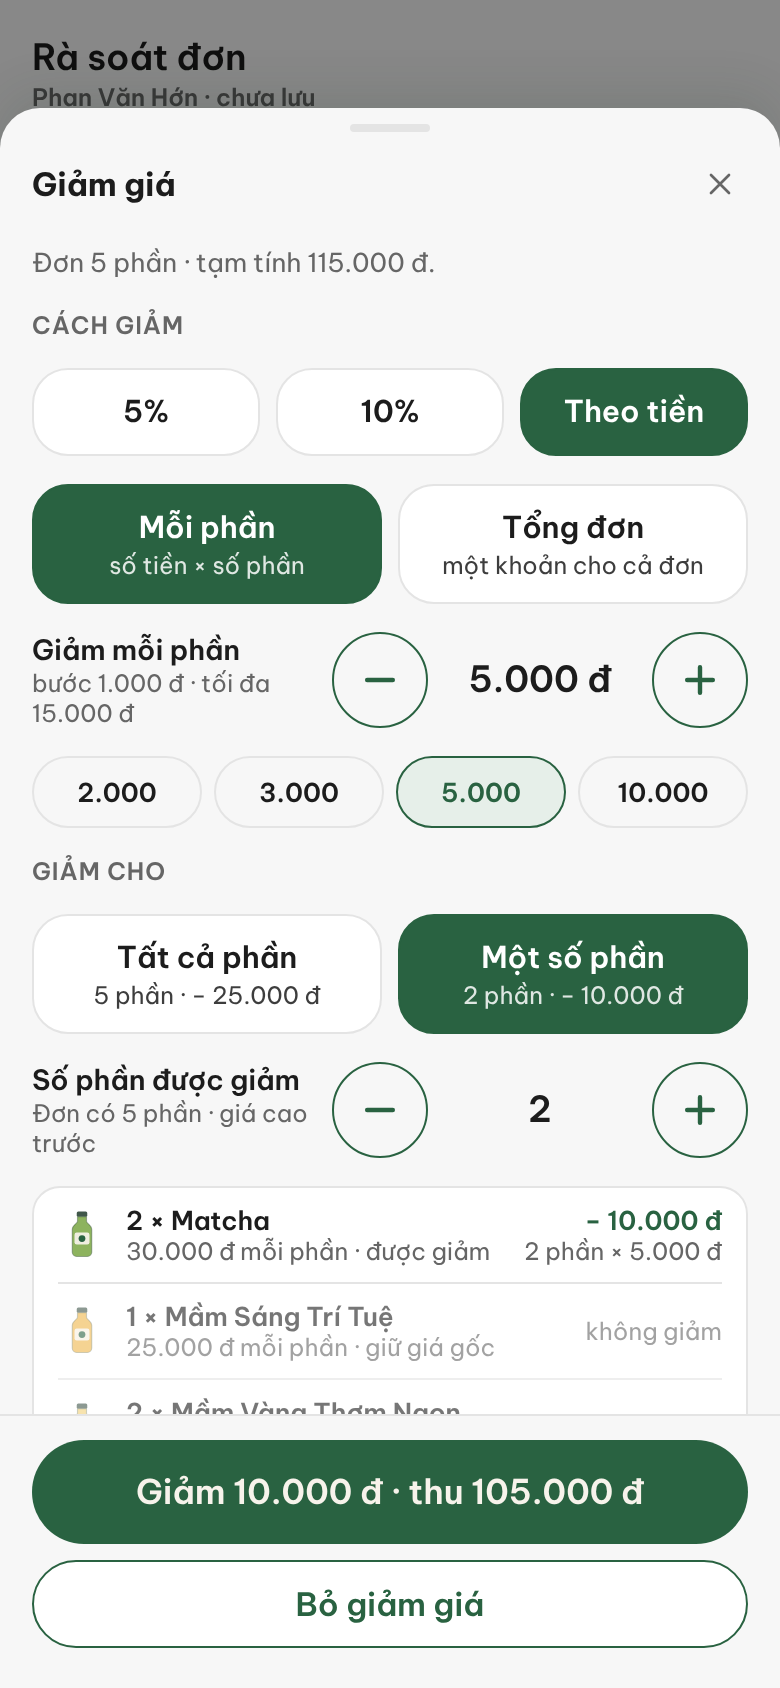
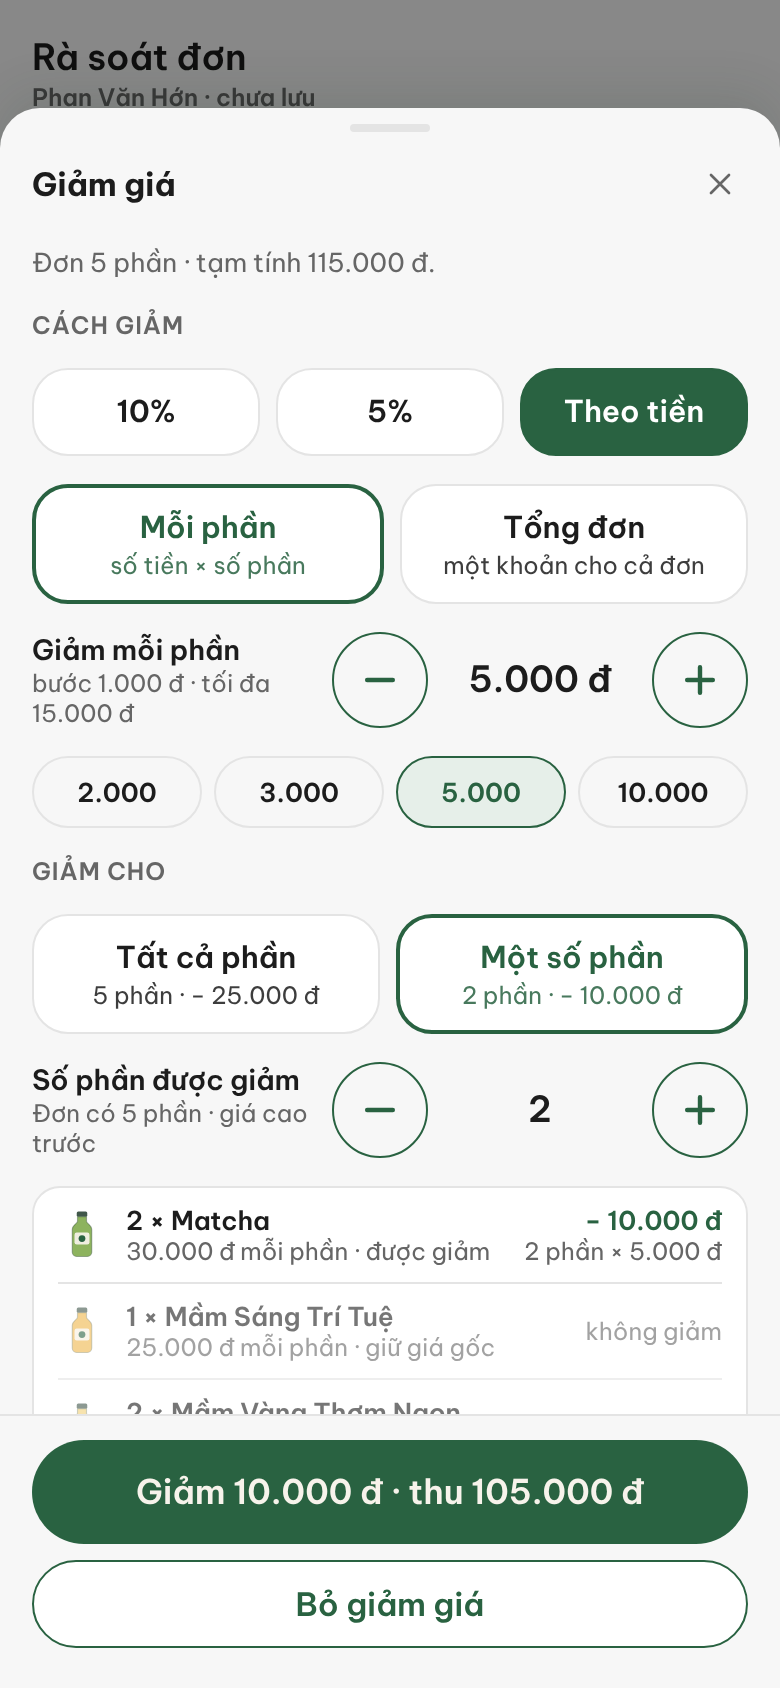
Giảm giá: mặc định 10% tất cả phần, thứ tự 10% · 5% · Theo tiền, hàng phụ kiểu viền xanh
Claude-Session: https://claude.ai/code/session_012H9kr2VG4R3VUZNc7rF4BK

diff --git a/src/components/DiscountPicker.tsx b/src/components/DiscountPicker.tsx
@@ -9,7 +9,7 @@ import { Icon } from './ui';
 export type DiscRow = DiscLine & { key: string; name: string; icon?: ReactNode };
 
 /** Bộ chọn giảm giá dùng chung cho màn Ghi đơn (sheet) và Sửa đơn (thiết kế X01–X04).
- *  Hàng đầu: 5% · 10% · Theo tiền. Theo tiền: Mỗi phần (bước 1.000 đ) hoặc Tổng đơn (gõ số). */
+ *  Hàng đầu (tô kín): 10% · 5% · Theo tiền. Hai hàng phụ kiểu viền. Theo tiền: Mỗi phần (bước 1.000 đ) hoặc Tổng đơn (gõ số). */
 export default function DiscountPicker({ rows, disc, setDisc }: { rows: DiscRow[]; disc: Disc; setDisc: (d: Disc) => void }) {
   const gross = grossOf(rows);
   const parts = partsOf(rows);
@@ -43,7 +43,7 @@ export default function DiscountPicker({ rows, disc, setDisc }: { rows: DiscRow[
       </div>
 
       {(kind === 'per_part' || kind === 'order') && (
-        <div className="seg3" role="radiogroup" aria-label="Giảm theo">
+        <div className="seg3 outline" role="radiogroup" aria-label="Giảm theo">
           <button type="button" role="radio" aria-checked={kind === 'per_part'} className={kind === 'per_part' ? 'on' : ''}
             style={{ flexDirection: 'column', gap: 2, minHeight: 60 }}
             onClick={() => kind !== 'per_part' && setDisc({ kind: 'per_part', amount: 5000, parts: null })}>
@@ -103,7 +103,7 @@ export default function DiscountPicker({ rows, disc, setDisc }: { rows: DiscRow[
       {disc && disc.kind !== 'order' && (
         <>
           <span className="h2" style={{ margin: 0 }}>Giảm cho</span>
-          <div className="seg3" role="radiogroup" aria-label="Giảm cho">
+          <div className="seg3 outline" role="radiogroup" aria-label="Giảm cho">
             <button type="button" role="radio" aria-checked={someN == null} className={someN == null ? 'on' : ''}
               style={{ flexDirection: 'column', gap: 2, minHeight: 60 }} onClick={() => setDisc(withParts(null))}>
               <span>Tất cả phần</span>

diff --git a/src/lib/discount.ts b/src/lib/discount.ts
@@ -6,7 +6,7 @@ import { vnd } from './format';
  *  - order: một khoản cho tổng đơn, chia vào từng phần theo giá (làm tròn xuống).
  *  Máy chủ (fn_post_order) tính lại y hệt; app chỉ tính để hiện trước khi lưu. */
 export type Pct = 5 | 10;
-export const PCTS: Pct[] = [5, 10];
+export const PCTS: Pct[] = [10, 5];
 export type DiscLine = { price: number; qty: number };
 export type Disc =
   | null
@@ -15,8 +15,8 @@ export type Disc =
   | { kind: 'order'; amount: number };
 export type DiscKind = 'pct' | 'per_part' | 'order';
 
-/** Mở Giảm giá lên là chọn sẵn cách này (Tùng 19/11). */
-export const DEFAULT_DISC: Disc = { kind: 'per_part', amount: 5000, parts: null };
+/** Mở Giảm giá lên là chọn sẵn cách này (Tùng 20/11: 10%, tất cả phần). Bấm Theo tiền thì chọn sẵn 5.000 đ mỗi phần. */
+export const DEFAULT_DISC: Disc = { kind: 'pct', pct: 10, parts: null };
 export const PER_PART_QUICK = [2000, 3000, 5000, 10000];
 export const ORDER_QUICK = [5000, 10000, 15000, 20000];
 export const AMOUNT_STEP = 1000;

diff --git a/src/styles.css b/src/styles.css
@@ -460,3 +460,6 @@ html, body { touch-action: pan-x pan-y; }
 /* Ô tích khi chọn nhiều đơn (Hóa đơn → Chọn, đổi ngày bán) */
 .check-box { width: 24px; height: 24px; flex-shrink: 0; border-radius: 7px; border: 2px solid #bdbdbd; background: var(--bg-100, #fff); display: inline-flex; align-items: center; justify-content: center; color: #fff; }
 .check-box.on { border-color: var(--brand); background: var(--brand); }
+
+/* Lựa chọn phụ (Giảm giá: Mỗi phần/Tổng đơn, Tất cả phần/Một số phần): viền xanh, nền trắng; chỉ hàng chính tô kín (Tùng 20/11) */
+.seg3.outline button.on { background: var(--bg-100); border: 2px solid var(--brand); color: var(--ink-brand); }

diff --git a/docs/phan-tich/BaBa_User_Stories.md b/docs/phan-tich/BaBa_User_Stories.md
@@ -114,8 +114,8 @@ Phiên bản 1.2 · 19/11/2026 · Thêm B-3 (giảm giá), B-4 (đổi ngày bá
 **Mô tả.** Là người đứng bán, tôi muốn bớt tiền cho khách quen trong vài chạm, để không phải tính nhẩm và báo cáo vẫn đúng. Thiết kế X01–X05 (thay Y05).
 
 **Tiêu chí nghiệm thu**
-- Khi bấm "Giảm giá" ở màn Ghi đơn thì bảng giảm giá mở với lựa chọn có sẵn **Theo tiền · Mỗi phần · 5.000 đ · Tất cả phần**.
-- Hàng đầu có ba nút theo thứ tự **5% · 10% · Theo tiền**.
+- Khi bấm "Giảm giá" ở màn Ghi đơn thì bảng giảm giá mở với lựa chọn có sẵn **10% · Tất cả phần** (Tùng 20/11). Bấm Theo tiền thì chọn sẵn 5.000 đ mỗi phần.
+- Hàng đầu có ba nút theo thứ tự **10% · 5% · Theo tiền**, nút đang chọn tô kín xanh đậm. Hai hàng phụ (Mỗi phần / Tổng đơn, Tất cả phần / Một số phần) kiểu viền: đang chọn thì viền xanh, nền trắng.
 - Khi chọn 5% hoặc 10% thì giảm theo phần trăm giá mỗi phần, cho tất cả phần hoặc một số phần (phần giá cao trước).
 - Khi chọn Theo tiền · Mỗi phần thì mỗi phần bớt một số tiền (nút +/− bước 1.000 đ, nút nhanh 2.000 · 3.000 · 5.000 · 10.000), cho tất cả phần hoặc một số phần.
 - Khi chọn Theo tiền · Tổng đơn thì gõ một khoản cho cả đơn (nút nhanh 5.000 · 10.000 · 15.000 · 20.000); app tự chia theo giá trị từng món để báo cáo lãi từng món đúng.

diff --git a/docs/bien-ban/2026-11-19_giam-theo-tien-doi-ngay.md b/docs/bien-ban/2026-11-19_giam-theo-tien-doi-ngay.md
@@ -9,6 +9,7 @@ Người chốt: Tùng (chat 19/11/2026, 21:34–22:13). Thiết kế: canvas "K
 | 1 | Giảm giá có thêm **Theo tiền**: mỗi phần (mặc định 5.000 đ) hoặc một khoản cho tổng đơn. Thứ tự nút: 5% · 10% · Theo tiền. Mở Giảm giá là chọn sẵn 5.000 đ mỗi phần | Y05 (chỉ 5%, 10%) |
 | 2 | Chủ cơ sở **đổi ngày bán** của đơn: một hoặc nhiều đơn một lúc, tối đa trong 7 ngày gần nhất, **không cần lý do** | — |
 | 3 | Đơn chuyển ngày lấy số thứ tự mới của ngày mới, giữ giờ bán (Claude chọn, Tùng không phản đối) | — |
+| 1a | **20/11:** mặc định đổi thành **10% · Tất cả phần**; thứ tự nút 10% · 5% · Theo tiền; hai hàng lựa chọn phụ kiểu viền xanh | mặc định 5.000 đ mỗi phần (19/11) |
 | 4 | Sửa luôn lỗi đơn rỗng (mọi dòng số lượng 0) trong `fn_post_order` | Điểm 9.7 Thiết kế DB |
 
 ## Hệ quả
